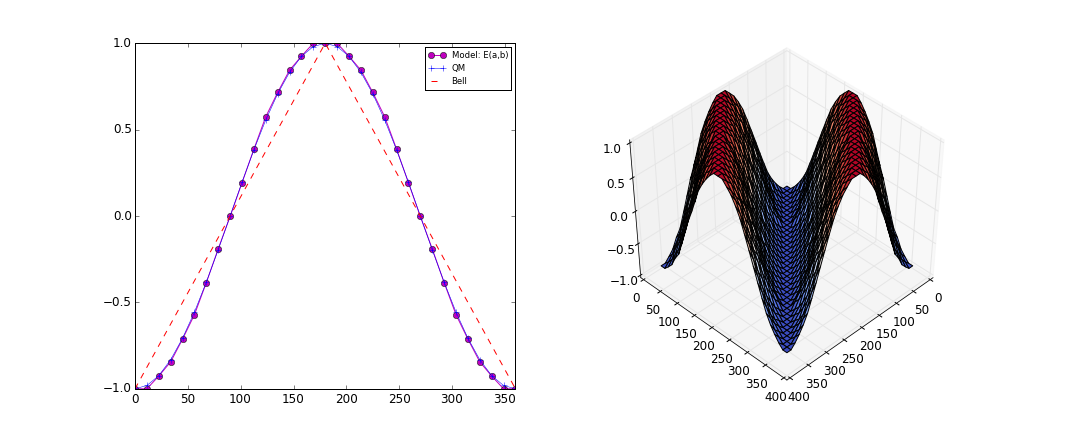
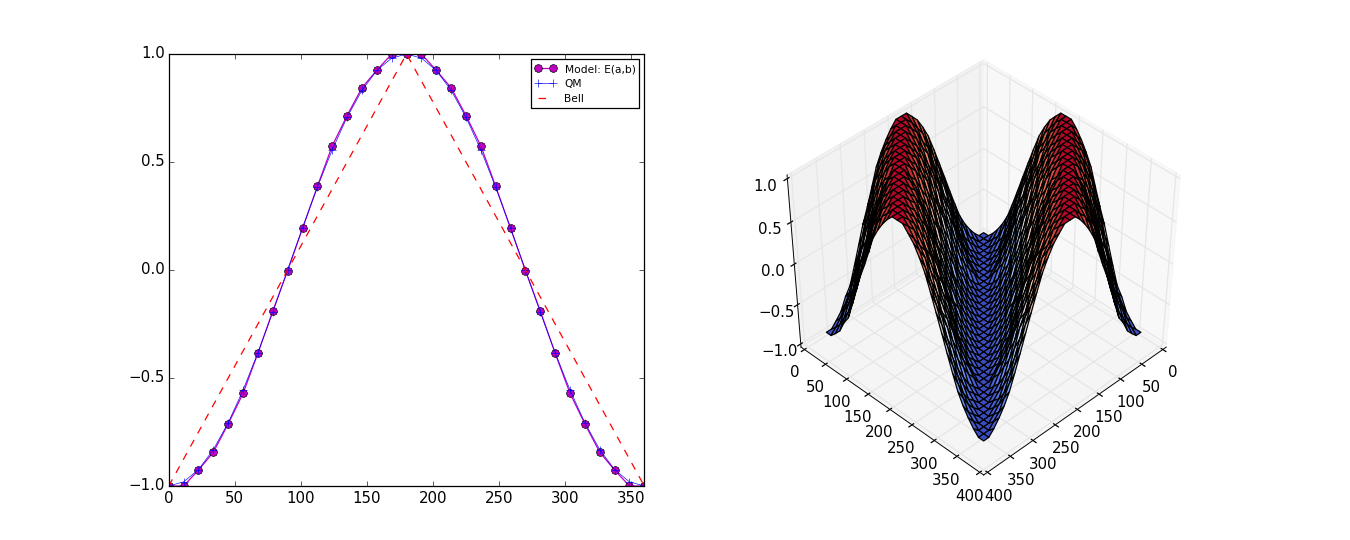
- new run

diff --git a/analyse.py b/analyse.py
@@ -119,7 +119,7 @@ def analyse(spin=PARTICLE_SPIN):
     ax2 = fig.add_subplot(122, projection='3d')
     ax2.plot_surface(X, Y, Corr, rstride=1, cstride=1, cmap=cm.coolwarm)
     ax2.view_init(elev=45., azim=45)
-    plt.savefig('analysis.png', dpi=72)
+    plt.savefig('analysis.png', dpi=90)
     plt.show()
     
 def QMFunc(a, spin):
